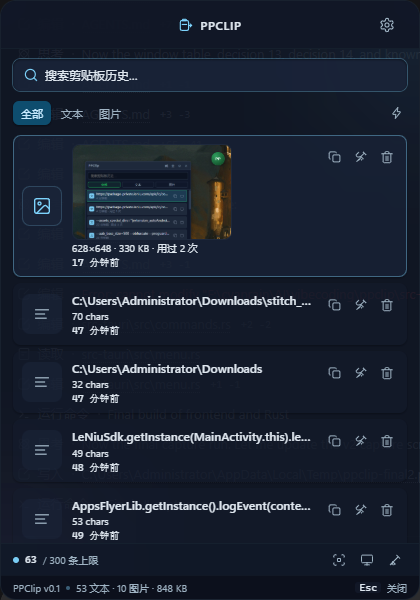
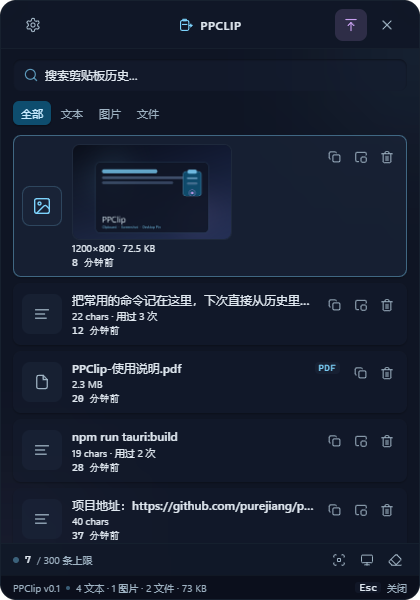
docs: 拆成中英文 README，重拍面板截图
- README.md 中文为主，README.en.md 英文镜像，顶部互相切换

- 截图用演示数据重拍，不带真实路径 / 剪贴板内容

diff --git a/README.md b/README.md
@@ -1,111 +1,145 @@
-# PPClip
+<p align="center">
+  <img src="src-tauri/icons/icon.png" width="96" alt="PPClip" />
+</p>
 
-轻量剪贴板 + 截图小工具：常驻一个桌面悬浮球（外加一个系统托盘图标），自动攒剪贴板历史
-（文本 / 图片 / 文件），支持区域与全屏截图，能把内容「贴」在桌面上随时查看。
+<h1 align="center">PPClip</h1>
 
-Tauri 2 + React 19；常驻内存约 100MB 量级（Rust 进程 + WebView2）。
+<p align="center">
+  <b>Windows 剪贴板历史 · 截图 · 桌面贴图</b><br />
+  复制过的文本、图片和文件自动收进历史；区域 / 全屏截图一键完成；需要时常驻的内容可以贴在桌面上。
+</p>
 
-## 功能（v1）
+<p align="center">
+  简体中文 · <a href="README.en.md">English</a>
+</p>
 
-| 能力 | 说明 |
+<p align="center">
+  <img src="https://img.shields.io/badge/Windows-10%20%2F%2011-0078D4?logo=windows&logoColor=white" alt="Windows 10/11" />
+  <img src="https://img.shields.io/badge/Tauri-2-24C8DB?logo=tauri&logoColor=white" alt="Tauri 2" />
+  <img src="https://img.shields.io/badge/React-19-61DAFB?logo=react&logoColor=black" alt="React 19" />
+  <img src="https://img.shields.io/badge/Rust-1.77%2B-000000?logo=rust&logoColor=white" alt="Rust" />
+  <img src="https://img.shields.io/badge/License-MIT-3DA639" alt="MIT License" />
+</p>
+
+<p align="center">
+  <img src="panel-final.png" width="420" alt="PPClip 历史面板" />
+</p>
+
+## 简介
+
+PPClip 是一个常驻桌面的 Windows 小工具：一个悬浮球加一枚托盘图标，没有常驻主窗口。
+单击悬浮球或托盘图标才会打开历史面板；复制的内容会按内容哈希去重后写入本地 SQLite，
+截图的结果同样会写回剪贴板并进入历史。
+
+数据全部保存在本机，应用不联网。
+
+## 功能
+
+- 📋 **剪贴板历史** —— 自动记录文本、图片和文件（资源管理器里复制的多个文件算一条）；重复复制只置顶、不新增；支持单条删除和清空全部
+- 🔍 **搜索与筛选** —— 关键词搜索，按全部 / 文本 / 图片 / 文件筛选
+- ✂ **截图** —— 区域截图可拖出选区后继续微调，`Enter` / 双击确定、`Esc` / 右键取消；全屏截图覆盖光标所在显示器；结果自动进剪贴板和历史
+- 🪄 **三态悬浮球** —— 贴边胶囊 ↔ 常规球 ↔ 快捷轮盘；拖到屏幕边自动吸附，鼠标离开自动滑回；有新内容时带角标
+- 📌 **桌面贴图** —— 把文本或图片贴在桌面上，可拖动、滚轮缩放，重启后恢复位置和大小
+- 👁 **查看窗口** —— 单例，停在面板旁边；文本可选中复制，图片支持适应窗口 / 原始尺寸，文件显示格式、大小、修改时间和路径，可按需计算 SHA-256 与 MD5
+- 🖥 **面板置顶** —— 历史面板可以固定在最上层、点外部不收起；默认跟随普通窗口，失焦自动收回
+- ⚙ **设置** —— 历史条数（默认 300）、图片存储上限（默认 200 MB）、数据目录、悬浮球显隐与不透明度、面板不透明度、开机自启
+- 🧩 **其他** —— 系统托盘、单实例（再次启动会唤回面板）、文件日志
+
+## 使用
+
+| 操作 | 说明 |
 |---|---|
-| 剪贴板历史 | 文本、图片、一次复制的多个文件；内容哈希去重（重复复制只置顶不新增）；搜索、按类型筛选；单条删除、清空全部；默认上限 300 条 + 图片 200MB |
-| 截图 | 区域截图（拖出选区后可继续微调，Enter / 双击确定，Esc 取消）、全屏截图（光标所在显示器）；结果自动写入剪贴板并进历史 |
-| 悬浮球 | 置顶、可拖动的入口，三种形态：贴边胶囊 → 鼠标放上去变成圆球 → 停 2 秒展开快捷盘（区域截图 / 全屏截图 / 剪贴板历史 / 隐藏悬浮球）；拖到屏幕边会吸附，鼠标离开自动滑回；有新条目时带角标 |
-| 托盘图标 | 左键开合面板；右键菜单：打开面板 / 区域截图 / 全屏截图 / 显示悬浮球 / 退出 PPClip |
-| 历史面板 | 列表显示预览（文本 / 图片缩略图 / 文件清单）；单击一条在右侧查看窗口打开详情，行尾图标是复制 / 贴到桌面 / 删除；↑↓ 选择、Enter 看详情、Ctrl+Enter 复制、Esc 收起；左上角设置，右上角桌面置顶与关闭 |
-| 查看窗口 | 完整内容：文本可选中复制，图片可缩放（适应窗口 / 原始尺寸），文件显示格式 / 大小 / 修改时间 / 路径，可按需算 SHA-256 与 MD5、在资源管理器里定位；窗口停在面板旁边，连点只换内容 |
-| 桌面贴图 | 把文本或图片钉在桌面上，可拖动、滚轮缩放、关闭；重启后按上次的位置与尺寸恢复 |
-| 设置 | 面板的第二屏：历史条数上限（50 一档）、图片存储上限、数据目录、悬浮球显隐与不透明度、面板不透明度、开机自启 |
-| 其他 | 单实例（再启动一次就唤回面板）、开机自启、文件日志 |
+| 悬浮球 · 单击 | 打开 / 收起历史面板 |
+| 悬浮球 · 拖动 | 移动位置；拖到屏幕边缘会吸附成胶囊 |
+| 贴边胶囊 · 悬停 | 展开成常规球；在球上停留 2 秒展开快捷轮盘 |
+| 托盘图标 | 左键开合面板，右键打开菜单 |
+| 面板 · 单击条目 | 在右侧查看窗口打开详情 |
+| 面板 · 行尾按钮 | 复制 / 贴到桌面 / 删除（删除需要点两次） |
+| 面板 · 左上角 / 右上角 | 设置 / 桌面置顶、关闭面板 |
+| 面板 · 键盘 | `↑` `↓` 选择 · `Enter` 详情 · `Ctrl+Enter` 复制 · `Esc` 收起 |
+| 查看窗口 | 图片双击切换「适应窗口 / 原始尺寸」；`Esc` 返回 |
+| 截图 | 拖出选区 → `Enter` 或双击确定；`Esc` / 右键取消 |
+| 桌面贴图 | 滚轮缩放；右键菜单；右上角关闭 |
 
-## 交互速查
+命令行截图（适合脚本调用）：
 
-- 悬浮球：单击开合面板；按住拖动可挪位置，拖到屏幕边会吸附成胶囊
-- 贴边胶囊：鼠标放上去展开成圆球；圆球上停 2 秒展开快捷盘；右键出原生菜单
-- 托盘图标：左键开合面板，右键出菜单
-- 面板：左上角齿轮进设置，右上角是桌面置顶和最右边的关闭
-- 面板：单击条目 → 右侧查看窗口打开详情；行尾图标是复制 / 贴到桌面 / 删除（删除要点两次）
-- 设置：面板不透明度只把玻璃底色调透，文字始终清晰；100% = 完全不透明
-- 查看窗口：Esc 返回；右上角复制、贴到桌面；图片双击在「适应窗口 / 原始尺寸」之间切换
-- 贴图：滚轮缩放，右键菜单，右上角 ✕ 关闭
-- 截图：拖出选区 → Enter 或双击确定，Esc / 右键取消
+```powershell
+ppclip.exe --capture-fullscreen
+```
 
-## 快速开始
+## 安装
 
-要求：Windows 10/11、Node 20+、Rust（MSVC 工具链）、WebView2 运行时（Win11 自带）。
+**系统要求**：Windows 10 / 11（x64），WebView2 运行时（Windows 11 自带，Windows 10 通常也已随 Edge 安装）。
+
+1. 打开 [Releases](https://github.com/purejiang/ppclip/releases) 下载最新的 `PPClip_x.y.z_x64-setup.exe`
+2. 双击安装（NSIS，当前用户，无需管理员权限）
+3. 启动后桌面会出现悬浮球，托盘也会出现 PPClip 图标
+
+> 如果 Releases 里还没有安装包，可以按[从源码构建](#从源码构建)自行打包。
+
+## 从源码构建
+
+需要 Node.js 20.19+、Rust（MSVC 工具链）和 WebView2。
 
 ```bash
+git clone https://github.com/purejiang/ppclip.git
+cd ppclip
 npm install
-npm run tauri:dev      # 开发：Vite + Rust 编译 + 悬浮球
-npm run tauri:build    # 打包：产出 NSIS 安装器
-npm run build          # 仅前端构建（tsc -b && vite build）
-npm run lint           # oxlint
+
+npm run tauri:dev     # 开发：Vite + Rust + 悬浮球
+npm run tauri:build   # 打包：NSIS 安装器
+```
+
+打包产物在 `src-tauri/target/release/bundle/nsis/`。
+
+其他命令：
+
+```bash
+npm run build         # 仅构建前端（tsc -b && vite build）
+npm run lint          # oxlint
 cd src-tauri && cargo test    # Rust 单元测试
 cd src-tauri && cargo check   # Rust 类型检查
 ```
 
-命令行截图（给脚本/冒烟测试用，结果照常写剪贴板并进历史）：
+**开发提示**
 
-```bash
-ppclip.exe --capture-fullscreen
-```
+- 直接运行 `cargo build` / `cargo check` 前需要先有 `dist/`（由 `npm run build` 生成），否则 `tauri::generate_context!` 会失败。
+- `src-tauri/Cargo.toml` 中 `[profile.dev.package.libsqlite3-sys] debug = false` 不要删除：MSVC 带调试信息编译 SQLite 会报 D8050。
+- 重新编译前先退出正在运行的 `ppclip.exe`，否则会遇到文件占用（os error 5）。
 
-打包产物：`src-tauri/target/release/bundle/nsis/PPClip_0.1.0_x64-setup.exe`
+## 数据与隐私
 
-## 数据位置
+所有数据只保存在本机，不上传、不同步，应用也不发起网络请求。
 
-`%APPDATA%\com.purejiang.ppclip\`
+默认位置：`%APPDATA%\com.purejiang.ppclip\`
 
 | 路径 | 内容 |
 |---|---|
-| `ppclip.db` | SQLite（clips / pins 两张表） |
-| `images/`、`thumbs/` | 图片原图与缩略图，文件名 = 内容 sha256 |
-| `cache/overlay.png` | 截图时的冻结图（用完即删） |
-| `settings.json` | 历史上限、图片上限、悬浮球/面板位置 |
+| `ppclip.db` | SQLite 数据库（clips / pins） |
+| `images/`、`thumbs/` | 图片原图与缩略图（文件名为内容 sha256） |
+| `settings.json` | 历史上限、图片上限、窗口位置等设置 |
 | `logs/ppclip.log` | 运行日志 |
 
-## 在受限环境（沙箱 / 自动化）里运行
+## 技术栈
 
-正常安装使用不需要看这段。应用启动时会**自己探测数据目录能不能写**，按顺序尝试：
+Tauri 2 · React 19 · TypeScript · Vite · Rust · rusqlite / SQLite
 
-1. `%APPDATA%\<identifier>` —— 标准位置，与 asset protocol 的 `$APPDATA/**` 对得上
-2. `%LOCALAPPDATA%\<identifier>` —— `$APPLOCALDATA/**`
-3. `<exe 同级>/ppclip-data` —— 便携兜底，`$EXE/**`
+界面不依赖 UI 组件库和图标字体：样式是手写的 CSS 变量，图标是手写的 SVG 组件。
 
-前一个写不了就用下一个，并在日志里留一条
-`WARN 标准数据目录 ... 不可写，已改用 ...`。**沙箱终端（例如 DSH 的开发终端）就是这种情况**：
-除项目目录外都写不了，它会自动落到第 2 或第 3 个位置 —— 所以 `npm run tauri:dev` 照常能跑，
-缩略图也照常显示（这三种位置都在 asset protocol 的 scope 里）。
+## 已知限制
 
-想手动指定位置就用环境变量。注意自定义位置**不在** scope 里，
-面板里的缩略图会加载不出来（日志出现 `asset protocol not configured to allow the path`）：
+- 没有全局热键：入口是悬浮球和托盘图标；隐藏悬浮球后，从托盘菜单召回。
+- 托盘图标不显示新条目数量（角标只在悬浮球上）。
+- 截图不支持标注、OCR、窗口截图和滚动长截图。
+- 文件条目只能查看和复制，不能贴到桌面。
+- 只记录纯文本、图片和文件列表，不保留富文本 / HTML 格式。
+- 多显示器下，选区只在光标所在的那块屏幕内完成（混合 DPI 跨屏选区未支持）。
+- 全屏独占应用（部分游戏、播放器）可能盖住悬浮球和桌面贴图。
 
-```powershell
-$env:PPCLIP_DATA_DIR = 'D:\tmp\ppclip-data'
-.\ppclip.exe --capture-fullscreen     # 附带：命令行全屏截图，写完剪贴板与历史后自动退出
-```
+## 贡献
 
-## 已知限制（v1 有意不做）
+欢迎提交 Issue 和 Pull Request。提交 PR 前建议先跑一遍 `npm run lint`、`npm run build` 和 `cd src-tauri && cargo test`。
 
-- 没有全局热键 —— 入口是悬浮球和托盘图标；隐藏悬浮球后，用托盘菜单的「显示悬浮球」召回。
-- 托盘上只有图标和菜单，不显示新条目数量（角标只在悬浮球上）。
-- 截图不支持标注（矩形/箭头/马赛克/文字）、OCR、窗口截图、滚动长截图。
-- 只记录文本、图片与文件列表，不保留富文本/HTML 格式。
-- 多显示器仅支持在**光标所在的那块屏幕**内完成选区（混合 DPI 下跨屏选区留给后续版本）。
+## License
 
-## 构建相关注意事项
-
-1. **`src-tauri/Cargo.toml` 里的 `[profile.dev.package.libsqlite3-sys] debug = false` 不能删。**
-   本机环境里 MSVC 带调试信息编译 `sqlite3.c` 会失败（`cl: error D8050 无法执行 c1.dll`），
-   关掉该 C 依赖的调试信息即可绕过；Rust 侧仍保留调试符号。
-2. **编译 Rust 前必须存在 `dist/`**（`tauri::generate_context!` 会检查 `frontendDist`）。
-   先跑一次 `npm run build`，或直接用 `npm run tauri:dev`。
-3. 重新编译前确认 `ppclip.exe` 已退出，否则会报文件占用（os error 5）。
-4. 更换图标：替换 `src-tauri/icons/` 后需要重新 `cargo build`（图标嵌进二进制）；
-   原始图源是仓库根目录的 `icon-source.png`，可用 `npx tauri icon icon-source.png` 重新生成整套。
-
-## 发布约定
-
-沿用 openstart 的做法：`dev` 日常开发，`main` 只接收合并并在其上打 tag
-（`git tag -a vX.Y.Z` + `git push`），打包后创建 GitHub Release。
+MIT

diff --git a/README.en.md b/README.en.md
@@ -1,0 +1,144 @@
+<p align="center">
+  <img src="src-tauri/icons/icon.png" width="96" alt="PPClip" />
+</p>
+
+<h1 align="center">PPClip</h1>
+
+<p align="center">
+  <b>Clipboard history · Screenshots · Desktop pins — for Windows</b><br />
+  Everything you copy — text, images, and files — lands in a searchable history. Take region or full-screen screenshots, and pin what you need to keep in sight.
+</p>
+
+<p align="center">
+  <a href="README.md">简体中文</a> · English
+</p>
+
+<p align="center">
+  <img src="https://img.shields.io/badge/Windows-10%20%2F%2011-0078D4?logo=windows&logoColor=white" alt="Windows 10/11" />
+  <img src="https://img.shields.io/badge/Tauri-2-24C8DB?logo=tauri&logoColor=white" alt="Tauri 2" />
+  <img src="https://img.shields.io/badge/React-19-61DAFB?logo=react&logoColor=black" alt="React 19" />
+  <img src="https://img.shields.io/badge/Rust-1.77%2B-000000?logo=rust&logoColor=white" alt="Rust" />
+  <img src="https://img.shields.io/badge/License-MIT-3DA639" alt="MIT License" />
+</p>
+
+<p align="center">
+  <img src="panel-final.png" width="420" alt="PPClip history panel" />
+</p>
+
+## Overview
+
+PPClip is a small Windows utility that lives in a floating ball and a tray icon. There is no main window to keep around: click the ball or the tray icon to open your clipboard history. New items are deduplicated by content hash and stored in a local SQLite database. Screenshots are copied to the clipboard and added to the same history.
+
+Everything stays on your machine. PPClip makes no network requests.
+
+## Features
+
+- 📋 **Clipboard history** — text, images, and files (a multi-file selection from Explorer counts as one item); duplicates move to the top instead of being inserted again; delete one item or clear the whole history
+- 🔍 **Search & filters** — search by keyword, filter by all / text / image / file
+- ✂ **Screenshots** — drag a region, fine-tune it, then press `Enter` or double-click; `Esc` / right-click cancels. Full-screen capture covers the display under the cursor. Results go straight to the clipboard and history
+- 🪄 **Three-state floating ball** — edge capsule ↔ orb ↔ quick wheel; snaps to screen edges and slides back when the cursor leaves; shows a badge for new items
+- 📌 **Desktop pins** — pin text or images on the desktop; drag to move, scroll to zoom; position and size are restored after restart
+- 👁 **Viewer** — a single window next to the panel; select and copy text, switch images between fit-to-window and actual size, inspect file type / size / modified time / path, and compute SHA-256 and MD5 on demand
+- 🖥 **Keep on top** — keep the history panel above other windows so it stays put when you click elsewhere; by default it closes when it loses focus
+- ⚙ **Settings** — history limit (300 by default), image storage limit (200 MB by default), data directory, floating ball visibility and opacity, panel opacity, launch at startup
+- 🧩 **Extras** — tray icon, single instance (launching again brings the panel back), file logs
+
+## Usage
+
+| Action | What it does |
+|---|---|
+| Floating ball · click | Open / close the history panel |
+| Floating ball · drag | Move it; drop near a screen edge to snap into the capsule |
+| Edge capsule · hover | Expands into the orb; hover the orb for 2 seconds to open the quick wheel |
+| Tray icon | Left-click toggles the panel; right-click opens the menu |
+| Panel · click an item | Opens the item in the viewer window |
+| Panel · row buttons | Copy / pin to desktop / delete (delete requires two clicks) |
+| Panel · top corners | Settings (left) / keep on top and close (right) |
+| Panel · keyboard | `↑` `↓` select · `Enter` details · `Ctrl+Enter` copy · `Esc` close |
+| Viewer | Double-click an image to toggle fit / actual size; `Esc` goes back |
+| Screenshot | Drag a region → `Enter` or double-click to confirm; `Esc` / right-click cancels |
+| Desktop pin | Scroll to zoom; right-click for the menu; close from the top-right button |
+
+Command-line screenshot (useful in scripts):
+
+```powershell
+ppclip.exe --capture-fullscreen
+```
+
+## Installation
+
+**Requirements:** Windows 10/11 (x64) and the WebView2 runtime (included with Windows 11; usually already present on Windows 10 through Edge).
+
+1. Download the latest `PPClip_x.y.z_x64-setup.exe` from [Releases](https://github.com/purejiang/ppclip/releases)
+2. Run the installer (NSIS, per-user, no administrator rights required)
+3. Launch PPClip — the floating ball appears on your desktop and the tray icon shows up
+
+> No installer in Releases yet? [Build from source](#build-from-source) instead.
+
+## Build from source
+
+You need Node.js 20.19+, Rust with the MSVC toolchain, and WebView2.
+
+```bash
+git clone https://github.com/purejiang/ppclip.git
+cd ppclip
+npm install
+
+npm run tauri:dev     # development: Vite + Rust + floating ball
+npm run tauri:build   # package: NSIS installer
+```
+
+The installer is written to `src-tauri/target/release/bundle/nsis/`.
+
+Other commands:
+
+```bash
+npm run build         # frontend only (tsc -b && vite build)
+npm run lint          # oxlint
+cd src-tauri && cargo test    # Rust unit tests
+cd src-tauri && cargo check   # Rust type check
+```
+
+**Development notes**
+
+- Run `npm run build` before calling `cargo build` / `cargo check` directly; `tauri::generate_context!` expects `dist/` to exist.
+- Keep `[profile.dev.package.libsqlite3-sys] debug = false` in `src-tauri/Cargo.toml`; compiling SQLite with debug info fails with MSVC error D8050.
+- Close any running `ppclip.exe` before rebuilding, otherwise you will hit os error 5 (file in use).
+
+## Data & privacy
+
+All data is stored locally. PPClip does not upload or sync anything and makes no network requests.
+
+Default location: `%APPDATA%\com.purejiang.ppclip\`
+
+| Path | Contents |
+|---|---|
+| `ppclip.db` | SQLite database (clips / pins) |
+| `images/`, `thumbs/` | Original images and thumbnails, named by content SHA-256 |
+| `settings.json` | Limits, window positions, and other settings |
+| `logs/ppclip.log` | Runtime log |
+
+## Tech stack
+
+Tauri 2 · React 19 · TypeScript · Vite · Rust · rusqlite / SQLite
+
+The UI has no component library and no icon font: styles are hand-written CSS variables, and icons are hand-written SVG components.
+
+## Known limitations
+
+- No global hotkey: use the floating ball or the tray icon. If you hide the ball, bring it back from the tray menu.
+- The tray icon does not show a new-item count; the badge is only on the floating ball.
+- Screenshots do not support annotations, OCR, window capture, or scrolling capture.
+- File items can be viewed and copied, but not pinned to the desktop.
+- Only plain text, images, and file lists are stored; rich text / HTML is not preserved.
+- On multi-monitor setups, a selection is limited to the display under the cursor (mixed-DPI cross-screen selection is not supported).
+- Exclusive full-screen apps (some games and video players) may cover the floating ball and desktop pins.
+- The interface is currently Chinese-only.
+
+## Contributing
+
+Issues and pull requests are welcome. Before opening a PR, please run `npm run lint`, `npm run build`, and `cd src-tauri && cargo test`.
+
+## License
+
+MIT
